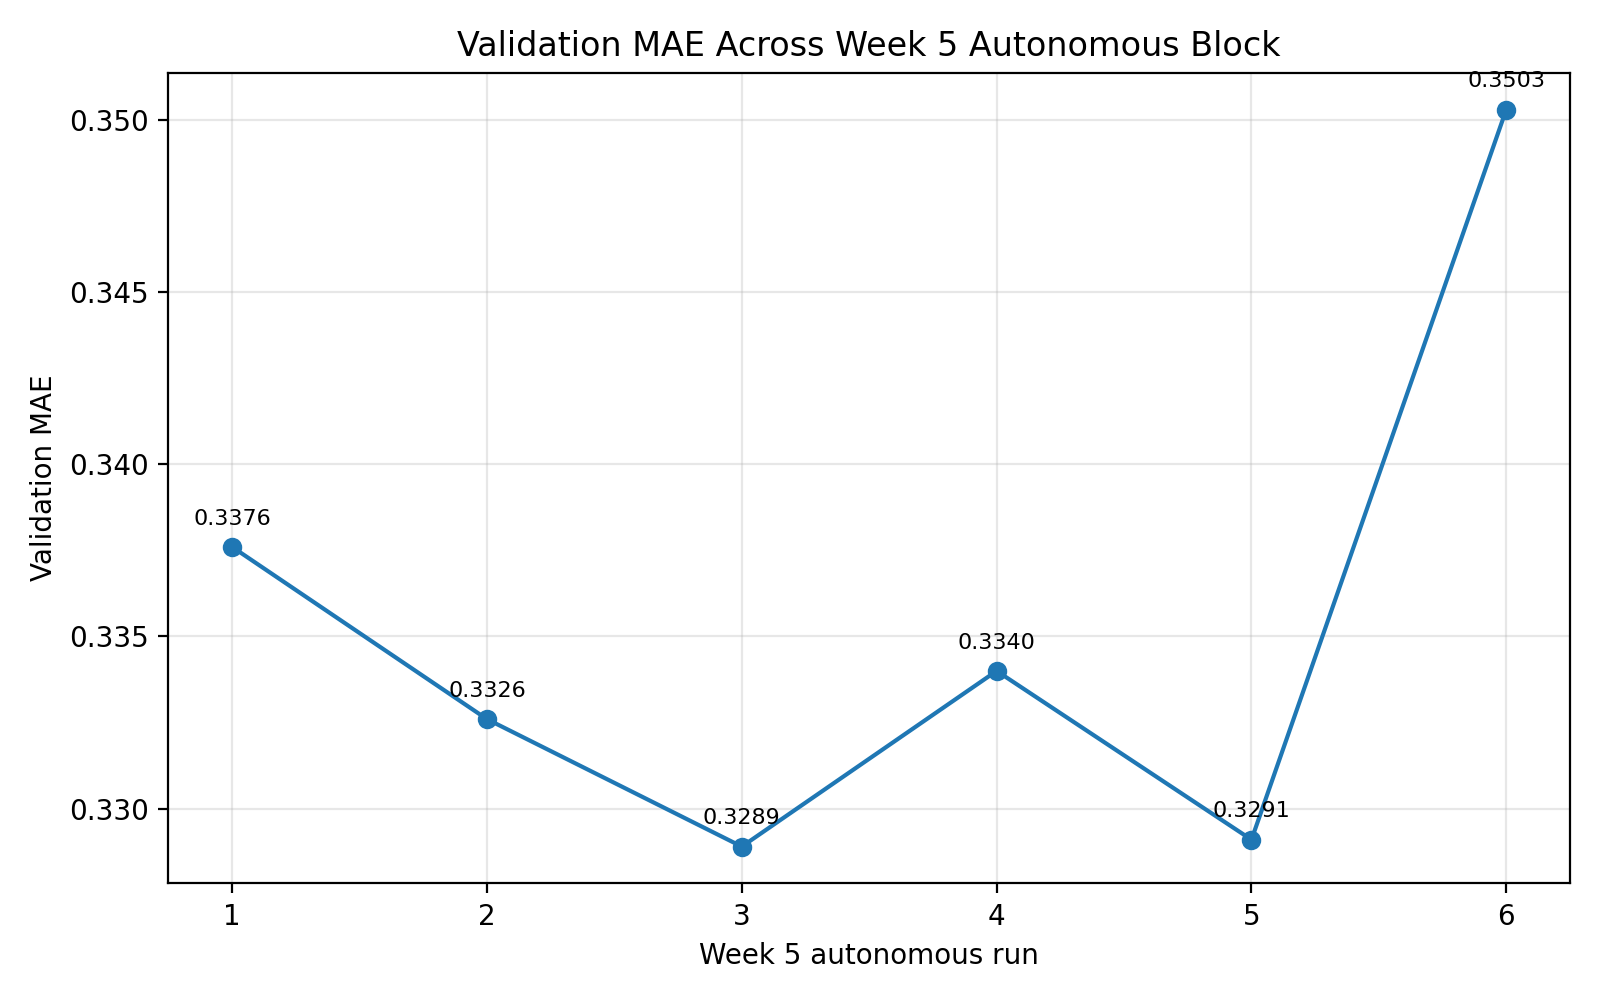
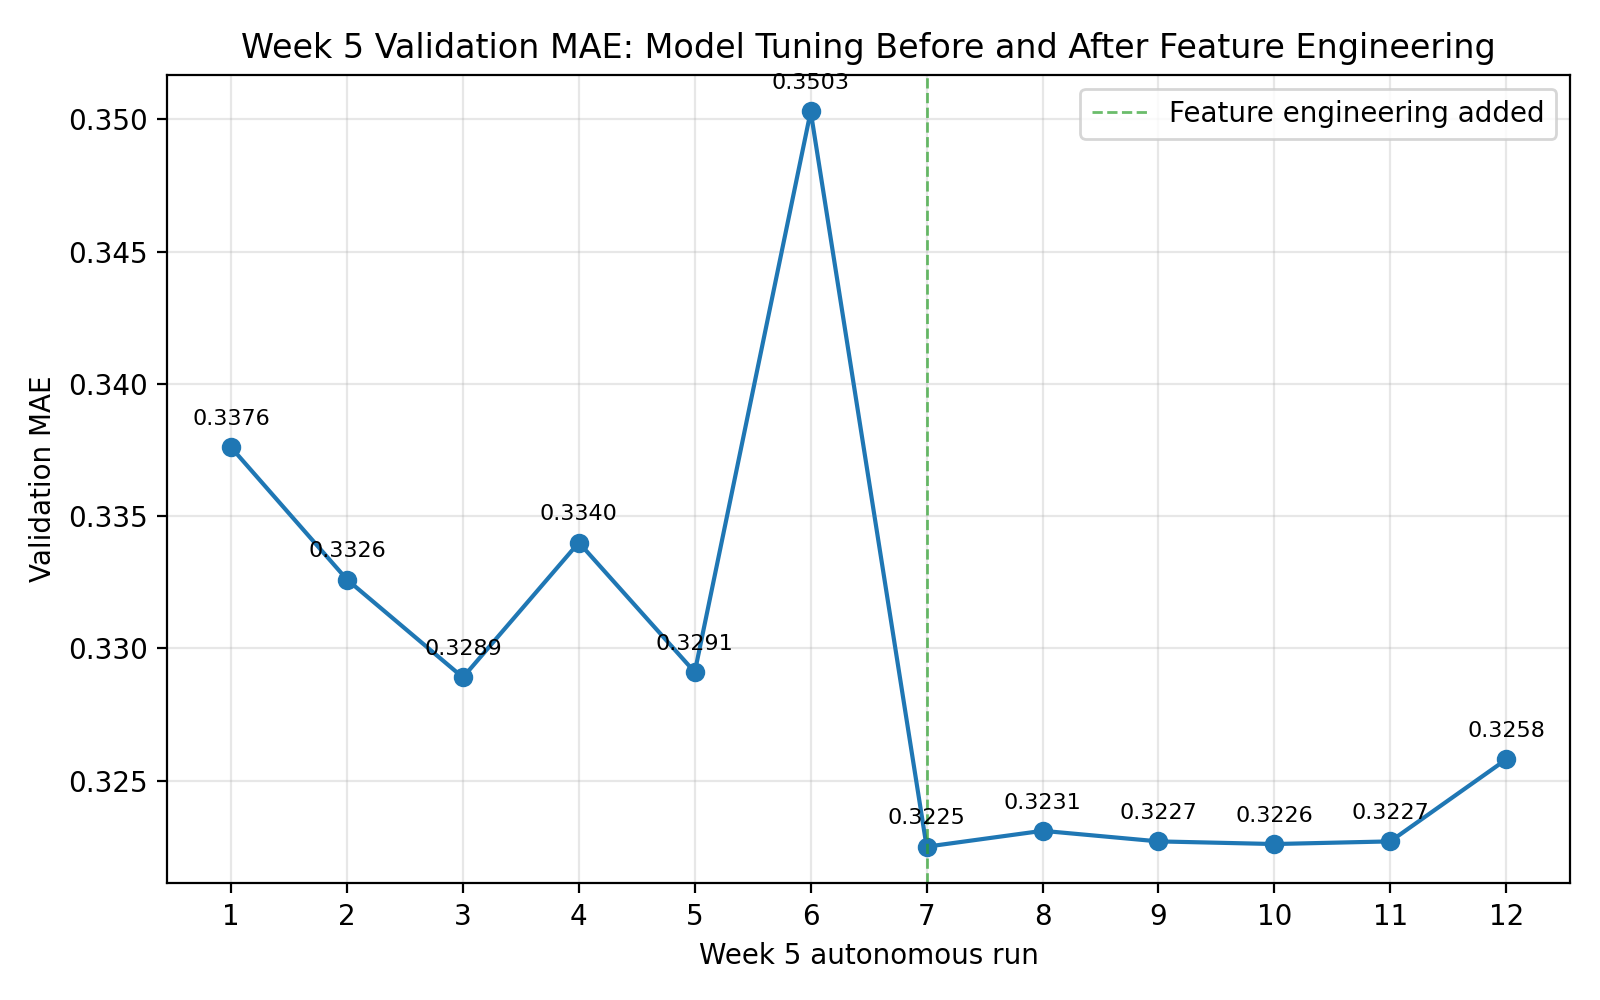
week 5 block 2

diff --git a/week_5_plot.py b/week_5_plot.py
@@ -9,13 +9,28 @@ week5["val_mae"] = pd.to_numeric(week5["val_mae"], errors="coerce")
 week5 = week5.dropna(subset=["val_mae"]).reset_index(drop=True)
 
 week5["run_order"] = range(1, len(week5) + 1)
+feature_engineering_run = week5[
+    week5["description"].eq("week5 feature eng add brand_name categorical")
+]["run_order"]
 
 plt.figure(figsize=(8, 5))
 plt.plot(week5["run_order"], week5["val_mae"], marker="o")
 
+if not feature_engineering_run.empty:
+    feature_x = feature_engineering_run.iloc[0]
+    plt.axvline(
+        feature_x,
+        color="tab:green",
+        linestyle="--",
+        linewidth=1,
+        alpha=0.7,
+        label="Feature engineering added"
+    )
+    plt.legend()
+
 plt.xlabel("Week 5 autonomous run")
 plt.ylabel("Validation MAE")
-plt.title("Validation MAE Across Week 5 Autonomous Block")
+plt.title("Week 5 Validation MAE: Model Tuning Before and After Feature Engineering")
 plt.xticks(week5["run_order"])
 plt.grid(True, alpha=0.3)
 
@@ -32,4 +47,4 @@ for i, row in week5.iterrows():
 
 plt.tight_layout()
 plt.savefig("week5_metric_trajectory.png", dpi=200)
-plt.show()
+plt.close()

diff --git a/week_5.md b/week_5.md
@@ -27,5 +27,36 @@ Dominant failure type = signal failure
 | 5 | Random Forest, `max_samples=0.8` | 0.3291 | Discard |
 | 6 | Gradient Boosting, `n_estimators=200`, `learning_rate=0.05`, `max_depth=3`, `subsample=0.8` | 0.3503 | Discard |
 
+## Post-Feature-Engineering Model-Tuning Block
+
+This second Week 5 block was run **after** the feature-engineering update that added `brand_name` as a categorical feature and froze the engineered feature setup. The feature-engineering logic, preprocessing, target, validation split, metric, and final test set remained unchanged. Only `model.py` was modified during the experiments, and `results.tsv` was updated only by running `run.py`.
+
+**Starting best after feature engineering:**  
+`Random Forest n_estimators = 400 max_features = 0.7`
+
+**Starting validation MAE after feature engineering:**  
+`0.3225`
+
+**Results**
+All 5 post-feature-engineering model-tuning runs were successful but discarded.
+Keep = 0
+Discard = 5
+Crash = 0
+Dominant failure type = no model-only change improved on the engineered-feature best
+
+| Run | Description | Validation MAE | Runtime Seconds | Decision |
+|---|---|---:|---:|---|
+| 1 | Random Forest, `n_estimators=400`, `max_features=0.6` | 0.3231 | 89.3135 | Discard |
+| 2 | Random Forest, `n_estimators=400`, `max_features=0.75` | 0.3227 | 97.2136 | Discard |
+| 3 | Random Forest, `n_estimators=600`, `max_features=0.7` | 0.3226 | 132.0807 | Discard |
+| 4 | Random Forest, `n_estimators=400`, `max_features=0.7`, `min_samples_split=4` | 0.3227 | 94.7354 | Discard |
+| 5 | Extra Trees, `n_estimators=500`, `max_features=0.75` | 0.3258 | 160.8591 | Discard |
+
+**Best post-feature-engineering tuning result:**  
+`0.3226`, from Random Forest with `n_estimators=600` and `max_features=0.7`.
+
+**Conclusion:**  
+The post-feature-engineering model-tuning block did not improve on the `0.3225` feature-engineered best. The closest run was only `0.0001` MAE worse, suggesting the current Random Forest setup remains a strong local optimum on the fixed engineered feature set.
+
 # Week 5 Metric Trajectory Plot
 ![Week 5 Trajectory Plot](week5_metric_trajectory.png)
